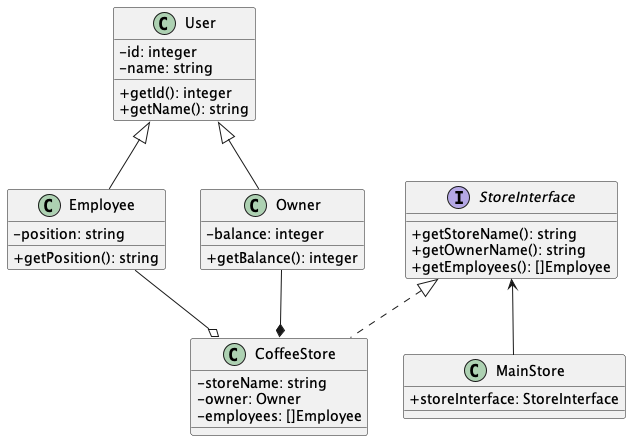
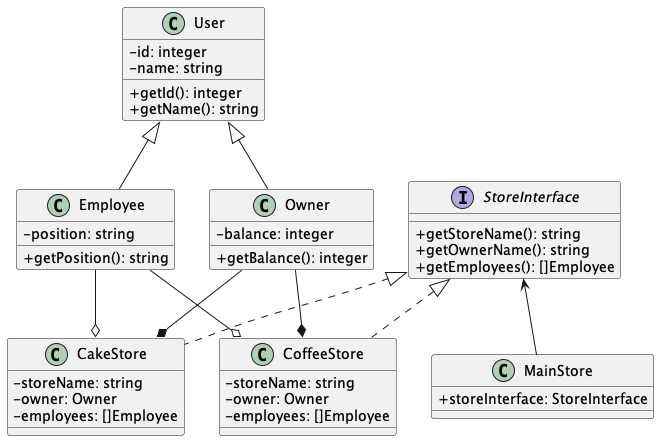
Update the example of class diagram

diff --git a/class_diagram/example.js b/class_diagram/example.js
@@ -15,7 +15,7 @@ var __extends = (this && this.__extends) || (function () {
     };
 })();
 exports.__esModule = true;
-exports.MainStore = exports.CoffeeStore = exports.Owner = exports.Employee = exports.User = void 0;
+exports.MainStore = exports.CakeStore = exports.CoffeeStore = exports.Owner = exports.Employee = exports.User = void 0;
 var User = /** @class */ (function () {
     function User(id, name) {
         this.id = id;
@@ -53,7 +53,7 @@ var CoffeeStore = /** @class */ (function () {
         this.employees = [];
         this.storeName = storeName;
         this.owner = new Owner(1, "Rival", 1250000);
-        this.employees.push(new Employee(3, "Santo", "Manager"));
+        this.employees.push(new Employee(2, "Santo", "Manager"));
     }
     CoffeeStore.prototype.getStoreName = function () {
         return this.storeName;
@@ -67,6 +67,25 @@ var CoffeeStore = /** @class */ (function () {
     return CoffeeStore;
 }());
 exports.CoffeeStore = CoffeeStore;
+var CakeStore = /** @class */ (function () {
+    function CakeStore(storeName) {
+        this.employees = [];
+        this.storeName = storeName;
+        this.owner = new Owner(3, "Steven", 1250000);
+        this.employees.push(new Employee(4, "Sudarsono", "Manager"));
+    }
+    CakeStore.prototype.getStoreName = function () {
+        return this.storeName;
+    };
+    CakeStore.prototype.getOwnerName = function () {
+        return this.owner.getName();
+    };
+    CakeStore.prototype.getEmployees = function () {
+        return this.employees;
+    };
+    return CakeStore;
+}());
+exports.CakeStore = CakeStore;
 var MainStore = /** @class */ (function () {
     function MainStore(storeInterface) {
         this.storeInterface = storeInterface;

diff --git a/class_diagram/main.ts b/class_diagram/main.ts
@@ -1,4 +1,4 @@
-import {Employee, MainStore, CoffeeStore} from "./example";
+import {Employee, MainStore, CoffeeStore, CakeStore} from "./example";
 
 interface Result {
     storeName: string;
@@ -6,12 +6,20 @@ interface Result {
     employees: Employee[];
 }
 
-var mainStore = new MainStore(new CoffeeStore("Store Laundry")).storeInterface;
+var mainCoffeeStore = new MainStore(new CoffeeStore("Store Coffee Abadie")).storeInterface;
+var mainCakeStore = new MainStore(new CakeStore("Store Cake Selamanya")).storeInterface;
 
-var result: Result = {
-    storeName: mainStore.getStoreName(),
-    ownerName: mainStore.getOwnerName(),
-    employees: mainStore.getEmployees()
+var resultCoffee: Result = {
+    storeName: mainCoffeeStore.getStoreName(),
+    ownerName: mainCoffeeStore.getOwnerName(),
+    employees: mainCoffeeStore.getEmployees()
 }
 
-console.log(JSON.stringify(result));
+var resultCake: Result = {
+    storeName: mainCakeStore.getStoreName(),
+    ownerName: mainCakeStore.getOwnerName(),
+    employees: mainCakeStore.getEmployees()
+}
+
+console.log(JSON.stringify(resultCoffee));
+console.log(JSON.stringify(resultCake));

diff --git a/class_diagram/main.js b/class_diagram/main.js
@@ -1,10 +1,17 @@
 "use strict";
 exports.__esModule = true;
 var example_1 = require("./example");
-var mainStore = new example_1.MainStore(new example_1.CoffeeStore("Store Laundry")).storeInterface;
-var result = {
-    storeName: mainStore.getStoreName(),
-    ownerName: mainStore.getOwnerName(),
-    employees: mainStore.getEmployees()
+var mainCoffeeStore = new example_1.MainStore(new example_1.CoffeeStore("Store Coffee Abadie")).storeInterface;
+var mainCakeStore = new example_1.MainStore(new example_1.CakeStore("Store Cake Selamanya")).storeInterface;
+var resultCoffee = {
+    storeName: mainCoffeeStore.getStoreName(),
+    ownerName: mainCoffeeStore.getOwnerName(),
+    employees: mainCoffeeStore.getEmployees()
 };
-console.log(JSON.stringify(result));
+var resultCake = {
+    storeName: mainCakeStore.getStoreName(),
+    ownerName: mainCakeStore.getOwnerName(),
+    employees: mainCakeStore.getEmployees()
+};
+console.log(JSON.stringify(resultCoffee));
+console.log(JSON.stringify(resultCake));

diff --git a/class_diagram/example.ts b/class_diagram/example.ts
@@ -54,7 +54,33 @@ export class CoffeeStore implements StoreInterface {
     constructor(storeName: string) {
         this.storeName = storeName;
         this.owner = new Owner(1, "Rival", 1250000);
-        this.employees.push(new Employee(3, "Santo", "Manager"));
+        this.employees.push(new Employee(2, "Santo", "Manager"));
+    }
+
+    public getStoreName(): string {
+        return this.storeName;
+    }
+
+    public getOwnerName(): string {
+        return this.owner.getName();
+    }
+
+    public getEmployees(): Employee[] {
+        return this.employees;
+    }
+
+}
+
+export class CakeStore implements StoreInterface {
+    
+    private storeName: string;
+    private owner: Owner;
+    private employees: Employee[] = [];
+
+    constructor(storeName: string) {
+        this.storeName = storeName;
+        this.owner = new Owner(3, "Steven", 1250000);
+        this.employees.push(new Employee(4, "Sudarsono", "Manager"));
     }
 
     public getStoreName(): string {
